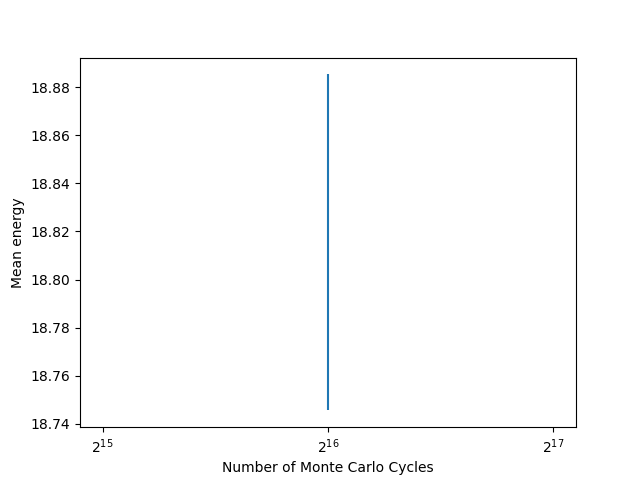
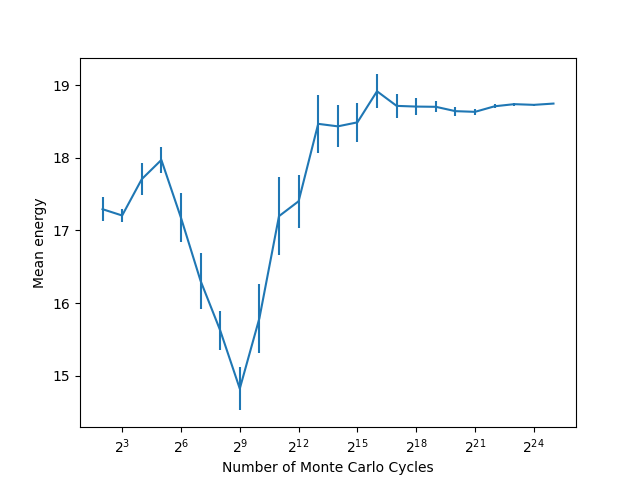
Fixed a really annying bug, but now it works. Blocking works now with parallel data

diff --git a/code/python/analysis.py b/code/python/analysis.py
@@ -1,72 +1,52 @@
 import os
 import sys
+from blocking import block
+import numpy as np
+from numpy import log2, sqrt
+import pandas as pd
+from pandas import DataFrame
+import matplotlib.pyplot as plt
+
 # Where to save the figures and data files
 DATA_ID = "../../output/"
 
 def data_path(dat_id):
     return os.path.join(DATA_ID, dat_id)
 
+filename="energies_test"; num_threads=4
 infile = open(data_path("energies_test.csv"),'r')
-import pandas as pd
-from pandas import DataFrame
-
-from numpy import log2, zeros, mean, var, sum, loadtxt, arange, array, cumsum, dot, transpose, diagonal, sqrt
-from numpy.linalg import inv
-import numpy as np
-def block(x):
-    # preliminaries
-
-    n = len(x)
-    d = int(log2(n))
-    s, gamma = zeros(d), zeros(d)
-    mu = mean(x)
-
-    # estimate the auto-covariance and variances
-    # for each blocking transformation
-    for i in arange(0,d):
-        n = len(x)
-        # estimate autocovariance of x
-        gamma[i] = (n)**(-1)*sum( (x[0:(n-1)]-mu)*(x[1:n]-mu) )
-        # estimate variance of x
-        s[i] = var(x)
-        # perform blocking transformation
-        x = 0.5*(x[0::2] + x[1::2])
-
-    # generate the test observator M_k from the theorem
-    M = (cumsum( ((gamma/s)**2*2**arange(1,d+1)[::-1])[::-1] )  )[::-1]
-
-    # we need a list of magic numbers
-    q =array([6.634897,9.210340, 11.344867, 13.276704, 15.086272, 16.811894, 18.475307, 20.090235, 21.665994, 23.209251, 24.724970, 26.216967, 27.688250, 29.141238, 30.577914, 31.999927, 33.408664, 34.805306, 36.190869, 37.566235, 38.932173, 40.289360, 41.638398, 42.979820, 44.314105, 45.641683, 46.962942, 48.278236, 49.587884, 50.892181])
-
-    # use magic to determine when we should have stopped blocking
-    for k in arange(0,d):
-        if(M[k] < q[k]):
-            break
-    if (k >= d-1):
-        print("Warning: Use more data")
-    return mu, s[k]/2**(d-k)
 
 
-
-xy = loadtxt(infile,skiprows=1,usecols=(1),delimiter=",")
-maxval=int( log2(len(xy)))
+values=np.empty((0));
+for i in range(num_threads):
+    if num_threads==1:
+        infile = open(data_path("%s.csv"%filename),'r')
+        values=np.append(values,np.loadtxt(infile,skiprows=1,usecols=(0),delimiter=","))
+        infile.close()
+        print(len(values)/(i+1))
+    else:
+        infile = open(data_path("%s%d.csv"%(filename,i)),'r')
+        values=np.append(values,np.loadtxt(infile,skiprows=1,usecols=(0),delimiter=","))
+        infile.close()
+        print(len(values)/(i+1))
+maxval=int( log2(len(values)))
 start=2
 xvals=np.logspace(start,maxval,maxval-start+1,base=2,dtype=int)
-xvals=[2**maxval]
+#xvals=[2**maxval]
 means=np.zeros(len(xvals))
 stds=np.zeros(len(xvals))
 print(xvals)
+#np.random.shuffle(values)
 for i,xval in enumerate(xvals):
     #print(i,xval)
     #print(xy[0:xval])
-    (meany, vary) = block(xy[0:xval])
+    (meany, vary) = block(values[0:xval])
     std = sqrt(vary)
     means[i]=meany;
     stds[i]=std;
     data ={'Mean':[meany], 'STDev':[std]}
     frame = pd.DataFrame(data,index=['Values'])
     print(frame)
-import matplotlib.pyplot as plt
 plt.errorbar(xvals,means,yerr=stds)
 plt.xscale("log",base=2);
 plt.xlabel("Number of Monte Carlo Cycles")

diff --git a/code/cpp/sampler.cpp b/code/cpp/sampler.cpp
@@ -56,22 +56,31 @@ void Sampler::sample(bool acceptedStep) {
     m_cumulativeEnergy += localEnergy;
     m_cumulkinetic     += localKineticEnergy;
     m_cumulpotential   += localPotentialEnergy;
-    if(m_stepNumber%m_writeOutStep==0 && m_samplertype==true){
-      writeExpectationEnergyToFile(m_cumulativeEnergy/(m_stepNumber+1),localEnergy);
-    }
+
     m_stepNumber++;
+    local_energyarray[m_stepNumber%m_writeOutStep]=localEnergy;
+    if(m_stepNumber%m_writeOutStep==0 && m_samplertype==true){
+      writeExpectationEnergyToFile();
+    }
     m_accepted+=int(acceptedStep);
 }
 void Sampler::initiateFile                 (){
   myfile.open(m_energyfile,std::ios::out);
   myfile << "cumulative energy, local energy at each "<<m_writeOutStep << "step\n";
   myfile.close();
+}
+void Sampler::writeExpectationEnergyToFile (){
   myfile.open(m_energyfile,std::ios::app);
   myfile << std::setprecision(10);
+  for(int i=0;i<m_writeOutStep;i++){
+    myfile <<local_energyarray[i] <<"\n";
+  }
+  myfile.close();
 }
-void Sampler::writeExpectationEnergyToFile (double cumul_energy, double local_energy){
-  (void)cumul_energy;
-  myfile <<local_energy <<"\n";
+void Sampler::writeExpectationEnergyToFile (double local_energy){
+  myfile.open(m_energyfile,std::ios::app);
+  myfile << std::setprecision(10) <<local_energy <<"\n";
+  myfile.close();
 }
 void Sampler::setFileNameforEnergy(std::string filename){
   m_energyfile = "../../../output/energies_"+ filename+".csv";

diff --git a/code/python/blocking.py b/code/python/blocking.py
@@ -1,0 +1,34 @@
+from numpy import log2, zeros, mean, var, sum, loadtxt, arange, array, cumsum, dot, transpose, diagonal, sqrt
+from numpy.linalg import inv
+def block(x):
+    # preliminaries
+
+    n = len(x)
+    d = int(log2(n))
+    s, gamma = zeros(d), zeros(d)
+    mu = mean(x)
+
+    # estimate the auto-covariance and variances
+    # for each blocking transformation
+    for i in arange(0,d):
+        n = len(x)
+        # estimate autocovariance of x
+        gamma[i] = (n)**(-1)*sum( (x[0:(n-1)]-mu)*(x[1:n]-mu) )
+        # estimate variance of x
+        s[i] = var(x)
+        # perform blocking transformation
+        x = 0.5*(x[0::2] + x[1::2])
+
+    # generate the test observator M_k from the theorem
+    M = (cumsum( ((gamma/s)**2*2**arange(1,d+1)[::-1])[::-1] )  )[::-1]
+
+    # we need a list of magic numbers
+    q =array([6.634897,9.210340, 11.344867, 13.276704, 15.086272, 16.811894, 18.475307, 20.090235, 21.665994, 23.209251, 24.724970, 26.216967, 27.688250, 29.141238, 30.577914, 31.999927, 33.408664, 34.805306, 36.190869, 37.566235, 38.932173, 40.289360, 41.638398, 42.979820, 44.314105, 45.641683, 46.962942, 48.278236, 49.587884, 50.892181])
+
+    # use magic to determine when we should have stopped blocking
+    for k in arange(0,d):
+        if(M[k] < q[k]):
+            break
+    if (k >= d-1):
+        print("Warning: Use more data")
+    return mu, s[k]/2**(d-k)

diff --git a/code/cpp/sampler.h b/code/cpp/sampler.h
@@ -16,7 +16,8 @@ public:
     double getCumulEnergysquared() {return m_cumulenergysquared;}
     void setWriteout(bool samplertype){m_samplertype=samplertype;}
     void initiateFile                 ();
-    void writeExpectationEnergyToFile (double cumul_energy, double local_energy);
+    void writeExpectationEnergyToFile (double local_energy);
+    void writeExpectationEnergyToFile ();
     void setFileNameforEnergy(std:: string filename);
     void closeFile(){myfile.close();}
     virtual void gdsampler(std::vector<class Particle*> particles, double localEnergy){
@@ -36,7 +37,8 @@ protected:
     double  m_cumulenergysquared=0;
     double  m_energysquared=0;
     int     m_accepted=0;
-    int     m_writeOutStep=1;
+    int     m_writeOutStep=1024;
+    double  local_energyarray[1024]={};
     class System* m_system = nullptr;
     std::string  m_energyfile;
     std::ofstream myfile;

diff --git a/code/cpp/WaveFunctions/complexfunction.cpp b/code/cpp/WaveFunctions/complexfunction.cpp
@@ -185,6 +185,8 @@ double ComplexFunction::computeDoubleDerivative(std::vector<class Particle*> par
           third_sum_temp=a/(particle_distances_absolute[k][i]*(a-particle_distances_absolute[k][i])); //The value for the third sum
           total_energy+=-(third_sum_temp*third_sum_temp);
         }
+
+        
         for(int l=0;l<num_dim;l++){
           total_energy+=temp[l]*temp[l];
           total_energy+=-4*alpha*temp[l]*first_sum_vector[l];
